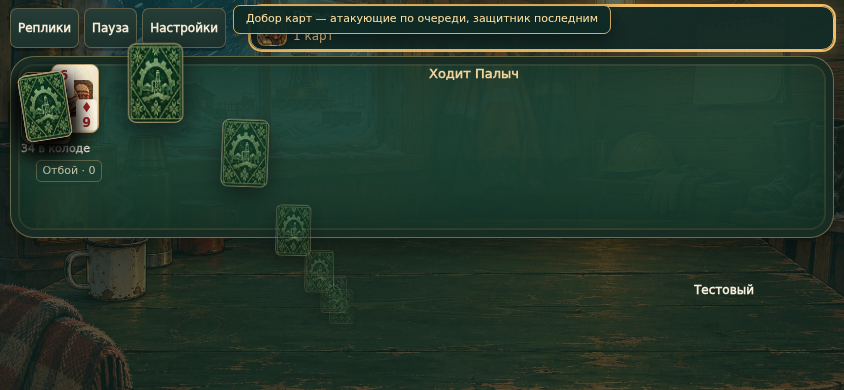
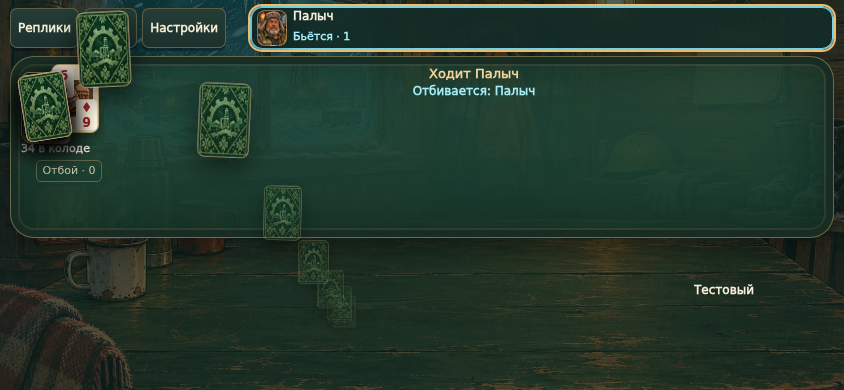
Remove automatic move announcements above the game

diff --git a/src/motion.js b/src/motion.js
@@ -25,9 +25,6 @@
             document.querySelector(".human-caption");
     }
 
-    status(text) {
-      this.message.textContent = text;
-    }
     async wait(ms) {
       if (document.hidden) return;
       await new Promise((r) => setTimeout(r, this.duration(ms)));
@@ -127,12 +124,7 @@
         });
       const pairs = document.querySelector(".pairs");
       if (!pairs) return;
-      const actor = before.actor,
-        who = before.players[actor].name;
-      this.message = document.createElement("div");
-      this.message.className = "motion-announcement";
-      this.message.setAttribute("role", "status");
-      document.body.append(this.message);
+      const actor = before.actor;
       const sourceSeat = this.seat(actor);
       sourceSeat?.closest(".opponent")?.classList.add("moving-player");
       const visual = structuredClone(before.table);
@@ -170,31 +162,18 @@
             to = this.rect(targetEl);
           const rotation = 0;
           measuring.remove();
-          this.status(
-            `${who} ${a.type === "defend" ? "отбивается" : a.type === "transfer" ? "переводит" : "ходит"} — ${VahtaEngine.label(a.card)}`,
-          );
           if (source) source.style.visibility = "hidden";
           await this.fly(this.card(a.card), from, to, { rotation });
           pairs.innerHTML = this.tableHTML(visual);
           this.layout?.(pairs, visual.length);
           await this.wait(250);
         } else {
-          this.status(
-            a.type === "take"
-              ? `${who} берёт. Остальные ещё могут подкинуть.`
-              : `${who} завершает подкидывание`,
-          );
           await this.wait(450);
         }
         const resolved = visual.length > 0 && after.table.length === 0;
         if (resolved) {
           const taking = before.taking || a.type === "take",
             defender = before.defender;
-          this.status(
-            taking
-              ? `${before.players[defender].name} забирает ${visual.flatMap((p) => (p.defense == null ? [p.attack] : [p.attack, p.defense])).length} карт`
-              : "Бито — карты уходят в отбой",
-          );
           await this.wait(500);
           const target = this.rect(
             taking
@@ -220,7 +199,6 @@
           .filter(VahtaEngine.ordinary)
           .filter((c) => !after.deck.includes(c));
         if (drawn.length) {
-          this.status("Добор карт — атакующие по очереди, защитник последним");
           const from = this.rect(
             document.querySelector(".stock-pile .back-card") ||
               document.querySelector(".stock-pile"),
@@ -242,7 +220,6 @@
       } finally {
         if (source) source.style.visibility = "";
         sourceSeat?.closest(".opponent")?.classList.remove("moving-player");
-        this.message.remove();
       }
     }
   }

diff --git a/src/styles/main.css b/src/styles/main.css
@@ -2740,23 +2740,6 @@ legend {
   transition: none !important;
   visibility: visible !important;
 }
-.motion-announcement {
-  position: fixed;
-  left: 50%;
-  top: max(7px, env(safe-area-inset-top));
-  transform: translateX(-50%);
-  max-width: 90vw;
-  background: #102b25f5;
-  border: 1px solid #d4ac64;
-  color: #ffe0a2;
-  border-radius: 7px;
-  padding: 7px 18px;
-  font-size: 13px;
-  text-align: center;
-  z-index: 310;
-  pointer-events: none;
-  box-shadow: 0 5px 18px #0007;
-}
 .opponent.moving-player {
   outline: 2px solid #f0bc66;
   box-shadow: 0 0 22px #e7b06455;
@@ -2765,12 +2748,6 @@ body[data-animating="true"] .game-actions {
   opacity: 0.5;
 }
 @media (max-height: 600px) and (orientation: landscape) {
-  .motion-announcement {
-    top: 5px;
-    font-size: 11px;
-    padding: 5px 12px;
-    max-width: 62vw;
-  }
   .discard-target {
     right: 12px;
     bottom: 4px;

diff --git a/README.md b/README.md
@@ -154,3 +154,8 @@ Playgama/Yandex и любые публикационные интеграции 
 Реакции на собственное происшествие и на происшествие человека разделены. Нулевое изменение руки не объявляется удачей; пропуск атаки учитывается как неприятность, отменённые эффекты не комментируются как произошедшие. Одна покрытая пара при взятии считается двумя картами. Итоговая реплика принадлежит настоящему проигравшему NPC либо вышедшему NPC, а ничья получает нейтральный текст. Повторы отслеживаются по варианту шутки, независимо от имени адресата.
 
 `test:dialogue`: четыре unit-проверки адресации, старых/новых сохранений и всех 360 текстов; 18 сценариев реального UI на портретном/альбомном мобильных размерах (бот → бот, бот → человек, перевод, защита от подкидывания другого участника, взятие и три вида реакции на события). Снимок `docs/screenshots/dialogue-npc-to-npc.png` — реальный ход бота в контролируемом раскладе.
+
+
+## Версия 1.5.1: без автоматических логов поверх игры
+
+Удалён всплывающий блок, объявлявший каждый ход, защиту, отбой и добор карт. Анимации, порядок ходов, подсветка защищающегося и реплики NPC сохранены. Журнал открывается только по желанию игрока. `test:motion` дополнительно отслеживает появление элементов объявлений во время полёта карт и проверяет, что их нет.

diff --git a/docs/TEST_REPORT.md b/docs/TEST_REPORT.md
@@ -110,3 +110,8 @@
 `test:dialogue`: четыре unit-проверки адресации, старых/новых сохранений и всех 360 текстов; 18 сценариев реального UI на портретном/альбомном мобильных размерах (бот → бот, бот → человек, перевод, защита от подкидывания другого участника, взятие и три вида реакции на события). Снимок `docs/screenshots/dialogue-npc-to-npc.png` — реальный ход бота в контролируемом раскладе.
 
 Итог 1.5: 60 основных unit/contract-тестов и четыре новых теста диалогов; 18 сценариев адресации через настоящий UI; 21 проверка игрового стола с новыми текстами; четыре проверки результата партии. Отдельно проверен круговой перевод: бот, покрывающий свою вернувшуюся карту, отвечает последнему переводившему участнику.
+
+
+## Версия 1.5.1: без автоматических логов поверх игры
+
+Удалён всплывающий блок, объявлявший каждый ход, защиту, отбой и добор карт. Анимации, порядок ходов, подсветка защищающегося и реплики NPC сохранены. Журнал открывается только по желанию игрока. `test:motion` дополнительно отслеживает появление элементов объявлений во время полёта карт и проверяет, что их нет.
